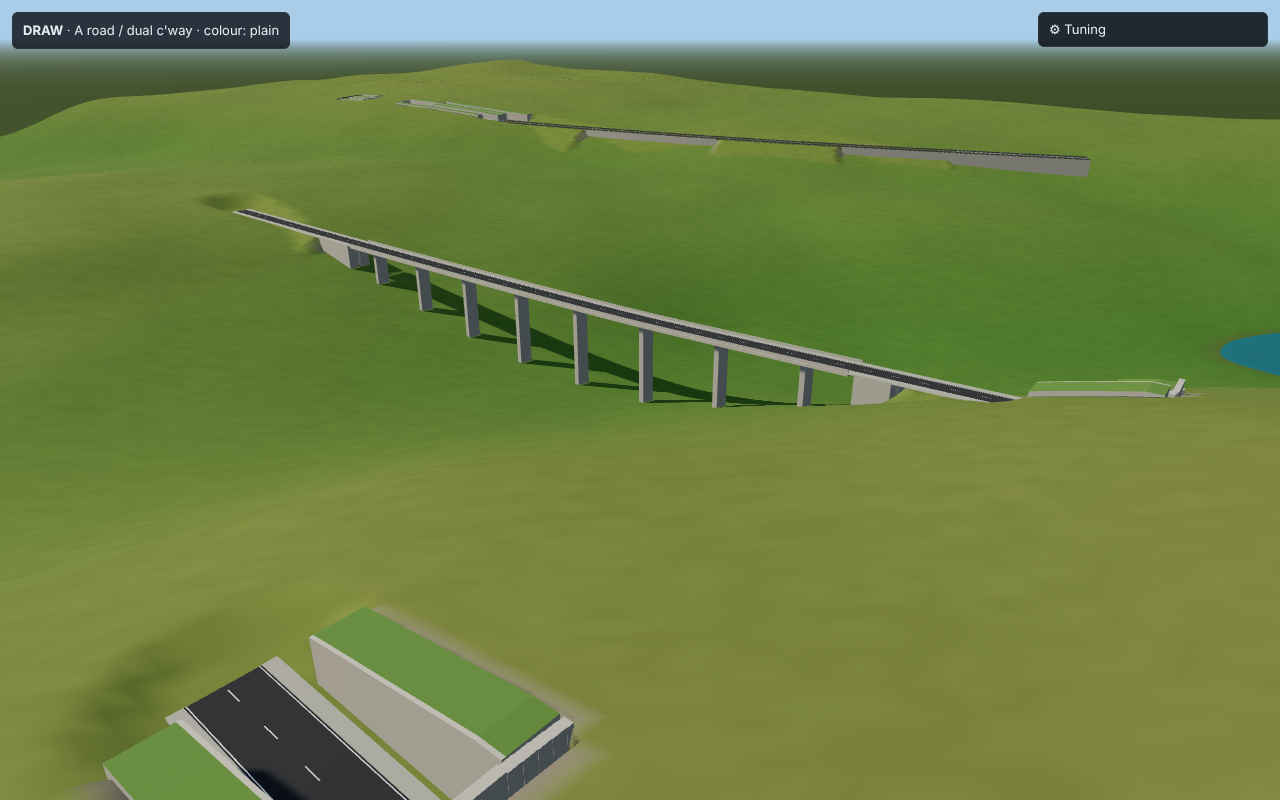
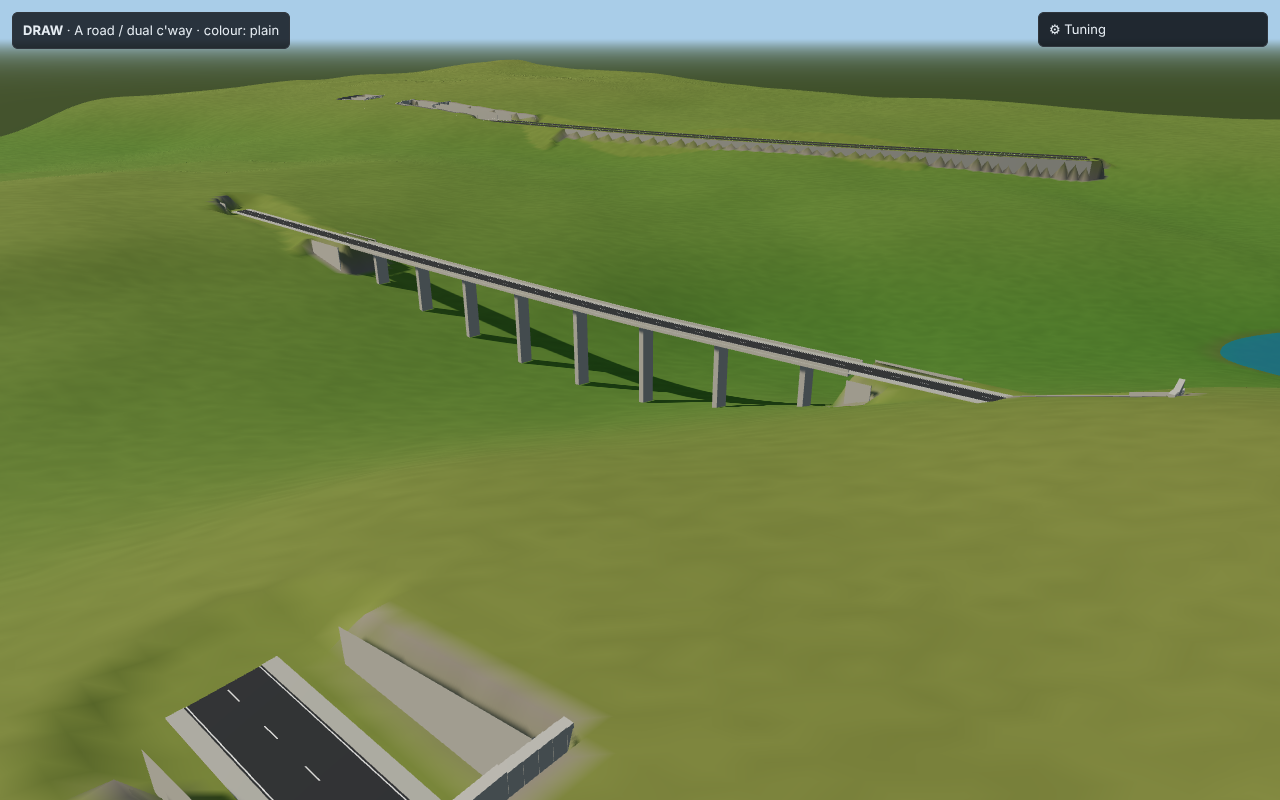
WIP: 3D prototype in progress (earthworks, bridges, surface agents)
Claude-Session: https://claude.ai/code/session_01NTNrKSbBLQQbhVekvQC2xE

diff --git a/prototypes/road-draw/3d.html b/prototypes/road-draw/3d.html
@@ -257,7 +257,7 @@ const ROAD_TYPES = {
   4: { id: 'motorway',    name: 'Motorway',           carriageway: 14.95, total: 17.45, lanes: 3, speedKph: 120, minR: 1020, maxGrade: 4, kc: 182, ks: 37, dual: true, gap: 3.0, edge: '#5f7d4a' },
 };
 const T = { snapAngle: 15, snapLen: 8, wallCap: 12, wallStart: 6, batter: 2, kMul: 1, minSpan: 4, water: 14 };
-const SHOULDER = 1.0, FORM_DROP = 0.4, PAVE_H = 0.12, DECK_T = 1.2, TUNNEL_H = 5.5, PARAPET_H = 1.0;
+const SHOULDER = 1.0, FORM_DROP = 0.15, PAVE_H = 0.12, DECK_T = 1.2, TUNNEL_H = 5.5, PARAPET_H = 1.0;
 
 // ===== Terrain data (same generator as the 2D prototype). TH = original, TG = graded. =====
 const TN = 513, CELL = WORLD / (TN - 1);
@@ -304,7 +304,8 @@ function hTri(A, x, y) {
 // ===== Roads: fitting, sampling, structure classification =====
 let roads = [], nextId = 1;
 const undoStack = [], redoStack = [];
-const reachOf = ty => ty.total / 2 + SHOULDER + 28 * T.batter;
+const edgeOf = ty => ty.total / 2 + SHOULDER + CELL;   // formation edge: everything within this of the centreline is graded flat to formation
+const reachOf = ty => edgeOf(ty) + 28 * T.batter;
 function closeGaps(a, maxGap) { // fill false runs shorter than maxGap that sit between true samples
   let i = 0; const n = a.length;
   while (i < n) { if (a[i]) { i++; continue; } let j = i; while (j < n && !a[j]) j++; if (i > 0 && j < n && j - i < maxGap) for (let k = i; k < j; k++) a[k] = true; i = j; }
@@ -315,21 +316,21 @@ function dropShort(a, minRun) {
 }
 // Per sample: base heights at the formation edges, wall flags, bridge / tunnel flags (shared by grader and mesh builder).
 function classify(r, ty) {
-  const S = r.samples, n = S.length, off = ty.total / 2 + SHOULDER;
+  const S = r.samples, n = S.length, off = edgeOf(ty);
   const br = new Array(n).fill(false), tu = new Array(n).fill(false);
   const cL = br.slice(), fL = br.slice(), cR = br.slice(), fR = br.slice();
   for (let i = 0; i < n; i++) {
-    const s = S[i], nx = -Math.sin(s.h), ny = Math.cos(s.h), dz = s.z - s.t;
-    s.eL = terrainH(s.x + nx * off, s.y + ny * off); s.eR = terrainH(s.x - nx * off, s.y - ny * off);
+    const s = S[i], nx = -Math.sin(s.h), ny = Math.cos(s.h), dz = s.z - hBase(s.x, s.y), form = s.z - FORM_DROP;
+    s.eL = hBase(s.x + nx * off, s.y + ny * off); s.eR = hBase(s.x - nx * off, s.y - ny * off);   // same (linear mesh) base heights the grader uses
     br[i] = dz > T.wallCap; tu[i] = dz < -T.wallCap;
-    cL[i] = s.eL - s.z > T.wallStart; fL[i] = s.z - s.eL > T.wallStart;
-    cR[i] = s.eR - s.z > T.wallStart; fR[i] = s.z - s.eR > T.wallStart;
+    cL[i] = s.eL - form > T.wallStart; fL[i] = form - s.eL > T.wallStart;
+    cR[i] = s.eR - form > T.wallStart; fR[i] = form - s.eR > T.wallStart;
   }
   for (const a of [br, tu]) { closeGaps(a, 8); dropShort(a, 8); }
   for (let i = 0; i < n; i++) if (br[i] && tu[i]) tu[i] = false;
   for (const a of [cL, fL, cR, fR]) { for (let i = 0; i < n; i++) if (br[i] || tu[i]) a[i] = false; closeGaps(a, 6); dropShort(a, 4); for (let i = 0; i < n; i++) if (br[i] || tu[i]) a[i] = false; }
   for (let i = 0; i < n; i++) {
-    const s = S[i]; s.br = br[i]; s.tu = tu[i];
+    const s = S[i]; s.br = s.bridge = br[i]; s.tu = s.tunnel = tu[i];   // shared contract: br/tu (existing mesh code) and bridge/tunnel aliases
     s.wL = cL[i] ? 1 : fL[i] ? 2 : 0; s.wR = cR[i] ? 1 : fR[i] ? 2 : 0;
   }
 }
@@ -374,23 +375,15 @@ function applyRoad(r, rg) {
   }
   const formAt = idx => { const k = BS[idx], t = BT[idx], a = S[k], b = S[k + 1]; return a.z + (b.z - a.z) * t - FORM_DROP; };
   const sampAt = idx => { const k = BS[idx]; return BT[idx] < 0.5 ? S[k] : S[k + 1]; };
+  const edge2 = edgeOf(ty) * edgeOf(ty), edge = edgeOf(ty);
   for (let j = j0; j <= j1; j++) for (let i = i0; i <= i1; i++) {
     const idx = j * TN + i; if (!(BD[idx] < reach2)) continue;
     const sm = sampAt(idx); if (sm.br || sm.tu) continue;
-    const d = Math.sqrt(BD[idx]), wall = BL[idx] > 0 ? sm.wL : sm.wR, form = formAt(idx), old = TG[idx]; let h = old;
-    if (wall === 1) { if (d <= hw + SHOULDER) { h = form; MK[idx] = 1; } }
-    else if (wall === 2) { if (d <= hw + 0.05 - 5.7) h = form; }   // only well inside the wall block, so no ramp shows outside it
-    else if (d <= hw + SHOULDER) h = form;
-    else { const e = d - hw - SHOULDER; h = h > form ? Math.min(h, form + e / bt) : Math.max(h, form - e / bt); }
+    const wall = BL[idx] > 0 ? sm.wL : sm.wR, form = formAt(idx), old = TG[idx]; let h = old;
+    if (BD[idx] <= edge2) h = form;                       // formation (incl. one extra cell so every triangle under the ribbon is fully under it)
+    else if (wall) continue;                               // walled side: natural ground outside the wall line
+    else { const e = Math.sqrt(BD[idx]) - edge; h = h > form ? Math.min(h, form + e / bt) : Math.max(h, form - e / bt); }
     TG[idx] = h; if (Math.abs(h - old) > 0.02) GR[idx] = 1;
-  }
-  // Cutting walls: the ring of vertices around the wall line is pulled to formation so the step is hidden inside the wall block.
-  for (let j = j0; j <= j1; j++) for (let i = i0; i <= i1; i++) {
-    const idx = j * TN + i; if (MK[idx] || !(BD[idx] < reach2)) continue;
-    const sm = sampAt(idx); if ((BL[idx] > 0 ? sm.wL : sm.wR) !== 1 || sm.br || sm.tu) continue;
-    let near = false;
-    for (let dj = -1; dj <= 1 && !near; dj++) for (let di = -1; di <= 1; di++) { const ii = i + di, jj = j + dj; if (ii < i0 || ii > i1 || jj < j0 || jj > j1) continue; if (MK[jj * TN + ii] === 1) { near = true; break; } }
-    if (near) { TG[idx] = Math.min(TG[idx], formAt(idx)); GR[idx] = 1; }
   }
 }
 function regradeRegion(box) {
@@ -425,15 +418,23 @@ function fixSelection() { if (state.sel && !roads.includes(state.sel)) state.sel
 // ===== Scene =====
 const canvas = document.getElementById('view'), profCv = document.getElementById('prof'), fc = profCv.getContext('2d');
 const renderer = new THREE.WebGLRenderer({ canvas, antialias: true, powerPreference: 'high-performance' });
-renderer.toneMapping = THREE.ACESFilmicToneMapping; renderer.toneMappingExposure = 1.0;
+renderer.toneMapping = THREE.ACESFilmicToneMapping; renderer.toneMappingExposure = 0.92;
 renderer.shadowMap.enabled = true; renderer.shadowMap.type = THREE.PCFSoftShadowMap;
-const SKY = 0xa9cde8;
+const SKY = 0xb9d3e6;   // horizon / fog colour (hazy morning)
 const scene = new THREE.Scene(); scene.background = new THREE.Color(SKY); scene.fog = new THREE.Fog(SKY, 1800, 7500);
+// Sky dome: vertical gradient, follows the camera, ignores fog and depth.
+const skyDome = new THREE.Mesh(new THREE.SphereGeometry(1, 32, 16), new THREE.ShaderMaterial({
+  side: THREE.BackSide, depthWrite: false, fog: false,
+  uniforms: { top: { value: new THREE.Color(0x3f7fc4) }, mid: { value: new THREE.Color(0x8fbbe0) }, hor: { value: new THREE.Color(SKY) }, glow: { value: new THREE.Color(0xffd9a8) }, sunDir: { value: new THREE.Vector3(-0.7, 0.5, 0.45).normalize() } },
+  vertexShader: 'varying vec3 vD; void main(){ vD = normalize(position); gl_Position = projectionMatrix * modelViewMatrix * vec4(position,1.0); }',
+  fragmentShader: 'uniform vec3 top,mid,hor,glow,sunDir; varying vec3 vD; void main(){ vec3 d=normalize(vD); float h=max(d.y,0.0); vec3 c=mix(hor,mid,smoothstep(0.0,0.18,h)); c=mix(c,top,smoothstep(0.15,0.8,h)); float g=pow(max(dot(d,sunDir),0.0),8.0); c+=glow*g*0.35*(1.0-h); if(d.y<0.0) c=hor; gl_FragColor=vec4(c,1.0);\n#include <tonemapping_fragment>\n#include <colorspace_fragment>\n}',
+}));
+skyDome.renderOrder = -10; skyDome.frustumCulled = false; scene.add(skyDome);
 const camera = new THREE.PerspectiveCamera(50, 1, 1, 20000);
-const hemi = new THREE.HemisphereLight(0xcfe6ff, 0x6b6a52, 1.25); scene.add(hemi);
-const sun = new THREE.DirectionalLight(0xfff1d6, 3.0); scene.add(sun, sun.target);
+const hemi = new THREE.HemisphereLight(0xbcd8f5, 0x6b6a52, 0.95); scene.add(hemi);
+const sun = new THREE.DirectionalLight(0xffe0b0, 3.4); scene.add(sun, sun.target);
 sun.castShadow = true; sun.shadow.mapSize.set(2048, 2048); sun.shadow.bias = -0.0004;
-const SUN_DIR = new THREE.Vector3(-0.55, 0.62, 0.45).normalize();
+const SUN_DIR = new THREE.Vector3(-0.7, 0.5, 0.45).normalize();
 const w3 = (x, y, z) => [x, z, -y];
 
 // Terrain mesh (513 x 513, 4 m cells). three position = (x, h, -y).
@@ -505,18 +506,40 @@ class MB {
     g.setAttribute('position', new THREE.Float32BufferAttribute(this.p, 3));
     g.setAttribute('normal', new THREE.Float32BufferAttribute(this.n, 3));
     g.setAttribute('color', new THREE.Float32BufferAttribute(this.c, 3));
+    if (mat.map) { const uv = new Float32Array(this.p.length / 3 * 2); for (let q = 0; q < uv.length / 2; q++) { uv[q * 2] = this.p[q * 3] * 0.25; uv[q * 2 + 1] = this.p[q * 3 + 2] * 0.25; } g.setAttribute('uv', new THREE.BufferAttribute(uv, 2)); }
     g.setIndex(this.i);
     const m = new THREE.Mesh(g, mat); m.receiveShadow = true; m.castShadow = !!shadow; return m;
   }
 }
 const lin = hex => { const c = new THREE.Color(hex); return [c.r, c.g, c.b]; };
-const COL = { asph: lin('#3c3f44'), pave: lin('#a5a49d'), kerb: lin('#c3c2bb'), verge: lin('#587a3a'), soil: lin('#8a8658'), mark: lin('#f2f2f2'), conc: lin('#b4b2ab'), concDk: lin('#8f8d87'), cap: lin('#628443'), tube: lin('#4a4a4c'), parapet: lin('#c9c7c0') };
+const COL = { asph: lin('#3c3f44'), pave: lin('#a5a49d'), kerb: lin('#c3c2bb'), verge: lin('#587a3a'), soil: lin('#8a8658'), mark: lin('#f2f2f2'), conc: lin('#b4b2ab'), concDk: lin('#8f8d87'), cap: lin('#628443'), tube: lin('#2a2a2d'), parapet: lin('#c9c7c0') };
 const stdMat = (o = {}) => new THREE.MeshStandardMaterial({ vertexColors: true, roughness: 0.92, metalness: 0, ...o });
+// Subtle procedural asphalt grain (near-white so vertex colours still drive the tint); uv = world metres / 4.
+const asphTex = (() => {
+  try {
+    const cv = document.createElement('canvas'); cv.width = cv.height = 256; const x = cv.getContext('2d'), im = x.createImageData(256, 256);
+    for (let i = 0; i < 256 * 256; i++) { const v = 205 + Math.random() * 50 | 0, k = Math.random() < 0.03 ? -35 : 0; im.data[i * 4] = im.data[i * 4 + 1] = im.data[i * 4 + 2] = v + k; im.data[i * 4 + 3] = 255; }
+    x.putImageData(im, 0, 0);
+    for (let i = 0; i < 40; i++) { x.fillStyle = `rgba(0,0,0,${0.03 + Math.random() * 0.04})`; x.fillRect(Math.random() * 256, Math.random() * 256, 8 + Math.random() * 40, 2 + Math.random() * 6); }
+    const t = new THREE.CanvasTexture(cv); t.wrapS = t.wrapT = THREE.RepeatWrapping; t.colorSpace = THREE.SRGBColorSpace; t.anisotropy = 4; return t;
+  } catch (e) { return null; }
+})();
 const MAT = {
-  asph: stdMat({ roughness: 0.96 }), pave: stdMat(), kerb: stdMat(), verge: stdMat({ roughness: 1 }), soil: stdMat({ roughness: 1 }),
+  asph: stdMat({ roughness: 0.9, map: asphTex }), pave: stdMat(), kerb: stdMat(), verge: stdMat({ roughness: 1 }), soil: stdMat({ roughness: 1 }),
   mark: stdMat({ roughness: 0.7, polygonOffset: true, polygonOffsetFactor: -2, polygonOffsetUnits: -4 }),
   conc: stdMat({ roughness: 0.85 }), cap: stdMat({ roughness: 1 }), tube: stdMat({ roughness: 0.9, emissive: 0x141416 }),
 };
+// Per-road material variants: higher road id => pulled slightly closer in depth, so overlaps never z-fight; markings always above every surface.
+const roadMatCache = new Map();
+function roadMats(id) {
+  const q = id % 64; let m = roadMatCache.get(q);
+  if (!m) {
+    const po = (mat, f, u) => { const c = mat.clone(); c.polygonOffset = true; c.polygonOffsetFactor = f; c.polygonOffsetUnits = u; return c; };
+    m = { asph: po(MAT.asph, -q * 0.1, -q), pave: po(MAT.pave, -q * 0.1 - 0.05, -q - 0.5), verge: po(MAT.verge, -q * 0.1, -q), kerb: po(MAT.kerb, -q * 0.1 - 0.05, -q - 0.5), mark: po(MAT.mark, -10 - q * 0.1, -100 - q) };
+    roadMatCache.set(q, m);
+  }
+  return m;
+}
 const HEAT = { '#e5484d': lin('#e5484d'), '#f5a623': lin('#f5a623'), '#e8d44d': lin('#e8d44d'), '#3fb950': lin('#3fb950') };
 function heatCurv(k, ty) { const R = Math.abs(k) > 1e-9 ? 1 / Math.abs(k) : 1e9; return R < ty.minR * 0.5 ? '#e5484d' : R < ty.minR ? '#f5a623' : R < ty.minR * 2 ? '#e8d44d' : '#3fb950'; }
 function heatGrade(g, ty) { const p = Math.abs(g) * 100; return p > ty.maxGrade * 1.5 ? '#e5484d' : p > ty.maxGrade ? '#f5a623' : p > ty.maxGrade * 0.5 ? '#e8d44d' : '#3fb950'; }
@@ -535,7 +558,7 @@ const latPt = (p, lat, z) => [p.x - Math.sin(p.h) * lat, p.y + Math.cos(p.h) * l
 
 function buildRoadGroup(r) {
   const ty = ROAD_TYPES[r.type], S = r.samples, n = S.length, hw = ty.total / 2, cw = ty.carriageway / 2;
-  const zo = (r.id % 64) * 0.0025, g = new THREE.Group();
+  const zo = (r.id % 64) * 0.0025, g = new THREE.Group(), RM = roadMats(r.id);
   const B = {}; for (const k of Object.keys(COL)) B[k] = new MB(COL[k]);
   B.tunRoad = new MB(COL.asph);
   const P = (k, lat, dz = 0) => latPt(S[k], lat, S[k].z + zo + dz);
@@ -563,7 +586,7 @@ function buildRoadGroup(r) {
   };
   // Oriented box at sample k (along / lateral / vertical ranges).
   const obox = (k, a0, a1, l0, l1, z0, z1, bk, topB) => {
-    const p = S[k], c = Math.cos(p.h), s = Math.sin(p.h);
+    const p = typeof k === 'number' ? S[k] : k, c = Math.cos(p.h), s = Math.sin(p.h);
     const V = (al, la, z) => [p.x + c * al - s * la, p.y + s * al + c * la, z];
     const v = [[a0, l0, z0], [a1, l0, z0], [a1, l1, z0], [a0, l1, z0], [a0, l0, z1], [a1, l0, z1], [a1, l1, z1], [a0, l1, z1]].map(q => V(...q));
     const f = fwd(p.h), ln = lnorm(p.h);
@@ -590,14 +613,17 @@ function buildRoadGroup(r) {
   } else {
     for (const sg of [1, -1]) { strip(B.verge, sg * cw, sg * hw, -0.03, UP, surf); face(B.soil, sg * hw, -FORM_DROP - 0.05, -0.03, sg, surf); face(B.kerb, sg * cw, -0.03, 0, -sg, surf); }
   }
+  // Skirts: vertical earth-coloured faces down the outer edge of the ribbon, hiding any residual sub-cell gap (bridge decks have their own sides).
+  for (const sg of [1, -1]) face(B.soil, sg * hw, -2.0, -FORM_DROP - 0.04, sg, k => surf(k) && !S[k].br && !S[k + 1].br);
   // Markings (thin white ribbons just above the surface; polygonOffset in the material).
-  const MZ = 0.025, MW = 0.075;
+  const MZ = 0.03, MW = 0.08;
   const solid = lat => strip(B.mark, lat - MW, lat + MW, MZ, UP, null);
   const dashed = lat => {
     const L = r.chain.L;
-    for (let s0 = 1; s0 + 3 < L; s0 += 9) {
-      const pts = [0, 1, 2, 3].map(q => poseAt(r, s0 + q));
-      for (let q = 0; q < 3; q++) B.mark.quad(latPt(pts[q], lat - MW, pts[q].z + zo + MZ), latPt(pts[q + 1], lat - MW, pts[q + 1].z + zo + MZ), latPt(pts[q + 1], lat + MW, pts[q + 1].z + zo + MZ), latPt(pts[q], lat + MW, pts[q].z + zo + MZ), UP);
+    const mph = ty.speedKph / 1.609, mk = mph <= 40 ? 2 : 3, gp = mk * 2;
+    for (let s0 = 1; s0 + mk < L; s0 += mk + gp) {
+      const nq = Math.max(2, Math.ceil(mk)), pts = []; for (let q = 0; q <= nq; q++) pts.push(poseAt(r, s0 + mk * q / nq));
+      for (let q = 0; q < nq; q++) B.mark.quad(latPt(pts[q], lat - MW, pts[q].z + zo + MZ), latPt(pts[q + 1], lat - MW, pts[q + 1].z + zo + MZ), latPt(pts[q + 1], lat + MW, pts[q + 1].z + zo + MZ), latPt(pts[q], lat + MW, pts[q].z + zo + MZ), UP);
     }
   };
   if (!r.oneWay && !ty.dual) dashed(0);
@@ -606,66 +632,74 @@ function buildRoadGroup(r) {
 
   // Runs of flags.
   const runs = f => { const out = []; let i = 0; while (i < n) { if (!f(S[i])) { i++; continue; } let j = i; while (j + 1 < n && f(S[j + 1])) j++; out.push([i, j]); i = j + 1; } return out; };
-  // Bridges: deck, parapets, piers.
+  // Bridges: deck slab (1 sample past each end), parapets, piers, abutments.
+  const groundMin = (pose, a0, a1, l0, l1) => { // lowest ground (graded or base) under an oriented footprint
+    let m = 1e9;
+    for (let i = 0; i <= 2; i++) for (let j = 0; j <= 4; j++) {
+      const al = a0 + (a1 - a0) * i / 2, la = l0 + (l1 - l0) * j / 4, c = Math.cos(pose.h), sn = Math.sin(pose.h);
+      const x = pose.x + c * al - sn * la, y = pose.y + sn * al + c * la; m = Math.min(m, hAt(x, y), hBase(x, y));
+    }
+    return m;
+  };
   for (const [a, b] of runs(s => s.br)) {
     if (b <= a) continue;
-    extrude(a, b, -hw, hw, k => S[k].z + zo - DECK_T, k => S[k].z + zo - 0.03, { noTop: true, bottom: true });
+    const a2 = Math.max(0, a - 1), b2 = Math.min(n - 1, b + 1);
+    extrude(a2, b2, -hw, hw, k => S[k].z + zo - DECK_T, k => S[k].z + zo - 0.03, { noTop: true, bottom: true });
     for (const sg of [1, -1]) extrude(a, b, sg > 0 ? hw - 0.4 : -hw + 0.1, sg > 0 ? hw - 0.1 : -hw + 0.4, k => S[k].z + zo - 0.03, k => S[k].z + zo + PARAPET_H, { top: B.conc });
-    const len = S[b].s - S[a].s, cnt = Math.max(1, Math.round(len / 35));
-    for (let q = 0; q < cnt; q++) {
-      const pp = poseAt(r, S[a].s + len * (q + 0.5) / cnt); let k = a; while (k < b && S[k].s < S[a].s + len * (q + 0.5) / cnt) k++;
-      const lw = Math.min(hw * 0.55, 3.5), zt = pp.z + zo - DECK_T + 0.05; let gnd = 1e9;
-      for (const al of [-1, 1]) for (const la of [-lw, lw]) { const c = latPt({ x: pp.x + Math.cos(pp.h) * al, y: pp.y + Math.sin(pp.h) * al, h: pp.h }, la, 0); gnd = Math.min(gnd, hAt(c[0], c[1]), hBase(c[0], c[1])); }
-      if (zt - gnd < 1.5) continue;
-      const saved = S[k]; S[k] = { ...saved, x: pp.x, y: pp.y, h: pp.h };
-      obox(k, -1.0, 1.0, -lw, lw, gnd - 1.5, zt, B.conc); S[k] = saved;
+    const len = S[b].s - S[a].s, usable = len - 16, pw = ty.total * 0.7 / 2;
+    if (usable >= 0) {
+      const cnt = Math.floor(usable / 35) + 1;
+      for (let q = 0; q < cnt; q++) {
+        const pp = poseAt(r, S[a].s + 8 + (cnt === 1 ? usable / 2 : usable * q / (cnt - 1)));
+        const gnd = groundMin(pp, -0.75, 0.75, -pw, pw), zt = pp.z + zo - DECK_T + 0.05;
+        obox(pp, -0.75, 0.75, -pw, pw, Math.min(gnd, zt - 0.5) - 1.0, zt, B.conc);
+      }
+    }
+    for (const [k, a0, a1] of [[a, -1.6, -0.4], [b, 0.4, 1.6]]) {
+      const gnd = groundMin(S[k], a0, a1, -hw, hw);
+      obox(k, a0, a1, -hw, hw, Math.min(gnd, S[k].z - DECK_T - 0.5) - 1.0, S[k].z + zo - 0.03, B.conc);
     }
   }
-  // Retaining walls (per side, per run of identical wall type).
+  // Retaining walls: thin vertical face at the formation edge, from formation-0.5 to natural ground+0.3 (no lid, no block).
   for (const sg of [1, -1]) {
-    const key = sg > 0 ? 'wL' : 'wR';
-    for (const kind of [1, 2]) for (const [a, b] of runs(s => s[key] === kind)) {
+    const key = sg > 0 ? 'wL' : 'wR', edge = edgeOf(ty);
+    for (const [a, b] of runs(s => s[key] > 0)) {
       if (b <= a) continue;
-      if (kind === 1) {
-        const inner = hw + SHOULDER, outer = inner + TCUT, tops = new Float32Array(n);
-        const raw = new Float32Array(n);
-        for (let k = a; k <= b; k++) { let m = -1e9; for (let l = inner; l <= outer + 0.01; l += 2) { const c = latPt(S[k], sg * l, 0); m = Math.max(m, hBase(c[0], c[1])); } raw[k] = m; }
-        for (let k = a; k <= b; k++) { let m = -1e9; for (let q = Math.max(a, k - 2); q <= Math.min(b, k + 2); q++) m = Math.max(m, raw[q]); tops[k] = m + 0.4; }
-        const zb = k => S[k].z + zo - FORM_DROP - 1.0, zt = k => tops[k];
-        const A = sg > 0 ? [inner, inner + 0.6] : [-inner - 0.6, -inner], Bq = sg > 0 ? [inner + 0.6, outer] : [-outer, -inner - 0.6];
-        extrude(a, b, A[0], A[1], zb, zt, { top: B.conc, noL1: sg > 0, noL0: sg < 0 });
-        extrude(a, b, Bq[0], Bq[1], zb, zt, { top: B.cap, side: B.conc, noL0: sg > 0, noL1: sg < 0 });
-      } else {
-        const edge = hw + 0.05, bots = new Float32Array(n);
-        for (let k = a; k <= b; k++) bots[k] = Math.min(...[0, 3, 6, 9].map(l => { const c = latPt(S[k], sg * (edge + l), 0); return Math.min(hBase(c[0], c[1]), hAt(c[0], c[1])); })) - 2.0;
-        const L = sg > 0 ? [edge - TFILL, edge] : [-edge, -edge + TFILL];
-        extrude(a, b, L[0], L[1], k => bots[k], k => S[k].z + zo - 0.05, { top: B.conc });
+      const bots = new Float32Array(n), tops = new Float32Array(n);
+      for (let k = a; k <= b; k++) {
+        const c = latPt(S[k], sg * edge, 0), nat = hBase(c[0], c[1]), form = S[k].z + zo - FORM_DROP;
+        bots[k] = Math.min(form, nat) - 0.5; tops[k] = Math.max(form + 0.1, nat + 0.3);
       }
+      const L = sg > 0 ? [edge, edge + 0.4] : [-edge - 0.4, -edge];
+      extrude(a, b, L[0], L[1], k => bots[k], k => tops[k], { noTop: true });
     }
   }
-  // Tunnels: dark tube + portal frames.
+  // Tunnels: portal headwalls with a recessed opening, plus a short dark lining so the portal is not see-through.
   for (const [a, b] of runs(s => s.tu)) {
-    if (b > a) {
-      for (let k = a; k < b; k++) {
-        B.tube.quad(P(k, hw, 0), P(k + 1, hw, 0), P(k + 1, hw, TUNNEL_H), P(k, hw, TUNNEL_H), neg(lnorm(S[k].h)));
-        B.tube.quad(P(k, -hw, 0), P(k + 1, -hw, 0), P(k + 1, -hw, TUNNEL_H), P(k, -hw, TUNNEL_H), lnorm(S[k].h));
-        B.tube.quad(P(k, -hw, TUNNEL_H), P(k + 1, -hw, TUNNEL_H), P(k + 1, hw, TUNNEL_H), P(k, hw, TUNNEL_H), DOWN);
+    const ow = hw + 0.5, W = ty.total / 2 + 3, HW_H = 7.0, DEPTH = 1.2;
+    const lining = (k0, dir) => { // from the portal sample inwards (dir +1 / -1) for ~10 m, closed by a back wall
+      let k1 = k0; while (k1 + dir >= a && k1 + dir <= b && Math.abs(S[k1].s - S[k0].s) < 10) k1 += dir;
+      if (k1 === k0) return;
+      const lo = Math.min(k0, k1), hi = Math.max(k0, k1);
+      for (let k = lo; k < hi; k++) {
+        B.tube.quad(P(k, ow, 0), P(k + 1, ow, 0), P(k + 1, ow, TUNNEL_H), P(k, ow, TUNNEL_H), neg(lnorm(S[k].h)));
+        B.tube.quad(P(k, -ow, 0), P(k + 1, -ow, 0), P(k + 1, -ow, TUNNEL_H), P(k, -ow, TUNNEL_H), lnorm(S[k].h));
+        B.tube.quad(P(k, -ow, TUNNEL_H), P(k + 1, -ow, TUNNEL_H), P(k + 1, ow, TUNNEL_H), P(k, ow, TUNNEL_H), DOWN);
       }
-    }
-    const W = hw + SHOULDER + TCUT;
-    for (const [k, a0, a1] of [[a, -1.4, 0.0], [b, 0.0, 1.4]]) {
-      const z0 = S[k].z + zo - 0.45, colTop = l => { const c = latPt(S[k], l, 0); return Math.max(hBase(c[0], c[1]), hAt(c[0], c[1])) + 0.6; };
-      for (const sg of [1, -1]) for (let l = hw; l < W - 0.01; l += 2) {
-        const l1 = Math.min(W, l + 2), top = Math.max(colTop(sg * l), colTop(sg * l1), S[k].z + TUNNEL_H + 1.5);
-        obox(k, a0, a1, sg > 0 ? l : -l1, sg > 0 ? l1 : -l, z0, top, B.conc);
-      }
-      obox(k, a0, a1, -hw, hw, S[k].z + zo + TUNNEL_H, Math.max(colTop(-hw), colTop(0), colTop(hw), S[k].z + TUNNEL_H + 1.5), B.conc);
+      if (k1 !== (dir > 0 ? b : a)) B.tube.quad(P(k1, -ow, -0.6), P(k1, ow, -0.6), P(k1, ow, TUNNEL_H), P(k1, -ow, TUNNEL_H), fwd(S[k1].h).map(v => -v * dir));
+    };
+    lining(a, 1); lining(b, -1);
+    for (const [k, a0, a1] of [[a, -DEPTH, 0], [b, 0, DEPTH]]) {
+      const z0 = S[k].z + zo - 0.6, zt = S[k].z + zo + HW_H;
+      obox(k, a0, a1, ow, W, z0, zt, B.conc);
+      obox(k, a0, a1, -W, -ow, z0, zt, B.conc);
+      obox(k, a0, a1, -ow, ow, S[k].z + zo + TUNNEL_H, zt, B.conc);
     }
   }
   const add = (bk, mat, shadow, pick) => { const m = bk.mesh(mat, shadow); if (m) { m.userData.road = r; m.userData.pick = pick; g.add(m); } };
-  add(B.asph, MAT.asph, false, true); add(B.tunRoad, MAT.asph, false, false);
-  add(B.pave, MAT.pave, false, true); add(B.verge, MAT.verge, false, true); add(B.soil, MAT.soil, false, false); add(B.kerb, MAT.kerb, false, false);
-  add(B.mark, MAT.mark, false, false); add(B.conc, MAT.conc, true, false); add(B.cap, MAT.cap, false, false); add(B.tube, MAT.tube, false, false);
+  add(B.asph, RM.asph, false, true); add(B.tunRoad, RM.asph, false, false);
+  add(B.pave, RM.pave, false, true); add(B.verge, RM.verge, false, true); add(B.soil, MAT.soil, false, false); add(B.kerb, RM.kerb, false, false);
+  add(B.mark, RM.mark, false, false); add(B.conc, MAT.conc, true, false); add(B.cap, MAT.cap, false, false); add(B.tube, MAT.tube, false, false);
   return g;
 }
 
@@ -749,6 +783,10 @@ function updateShadow() {
   sun.target.position.copy(tg); sun.position.copy(tg).addScaledVector(SUN_DIR, ld);
   const c = sun.shadow.camera; c.left = -half; c.right = half; c.top = half; c.bottom = -half; c.near = 10; c.far = ld * 2 + 400; c.updateProjectionMatrix();
   sun.shadow.normalBias = half * 2 / 2048 * 1.5;
+  // Atmosphere: fog scales with camera height / distance; dome follows the camera.
+  const hgt = Math.max(camera.position.y, 20), fn = Math.max(300, dist * 1.5 + hgt * 2);
+  scene.fog.near = fn; scene.fog.far = fn * 4.5 + 3000;
+  skyDome.position.copy(camera.position); skyDome.scale.setScalar(Math.max(camera.far * 0.9, 1000));
 }
 
 // ===== Picking =====
